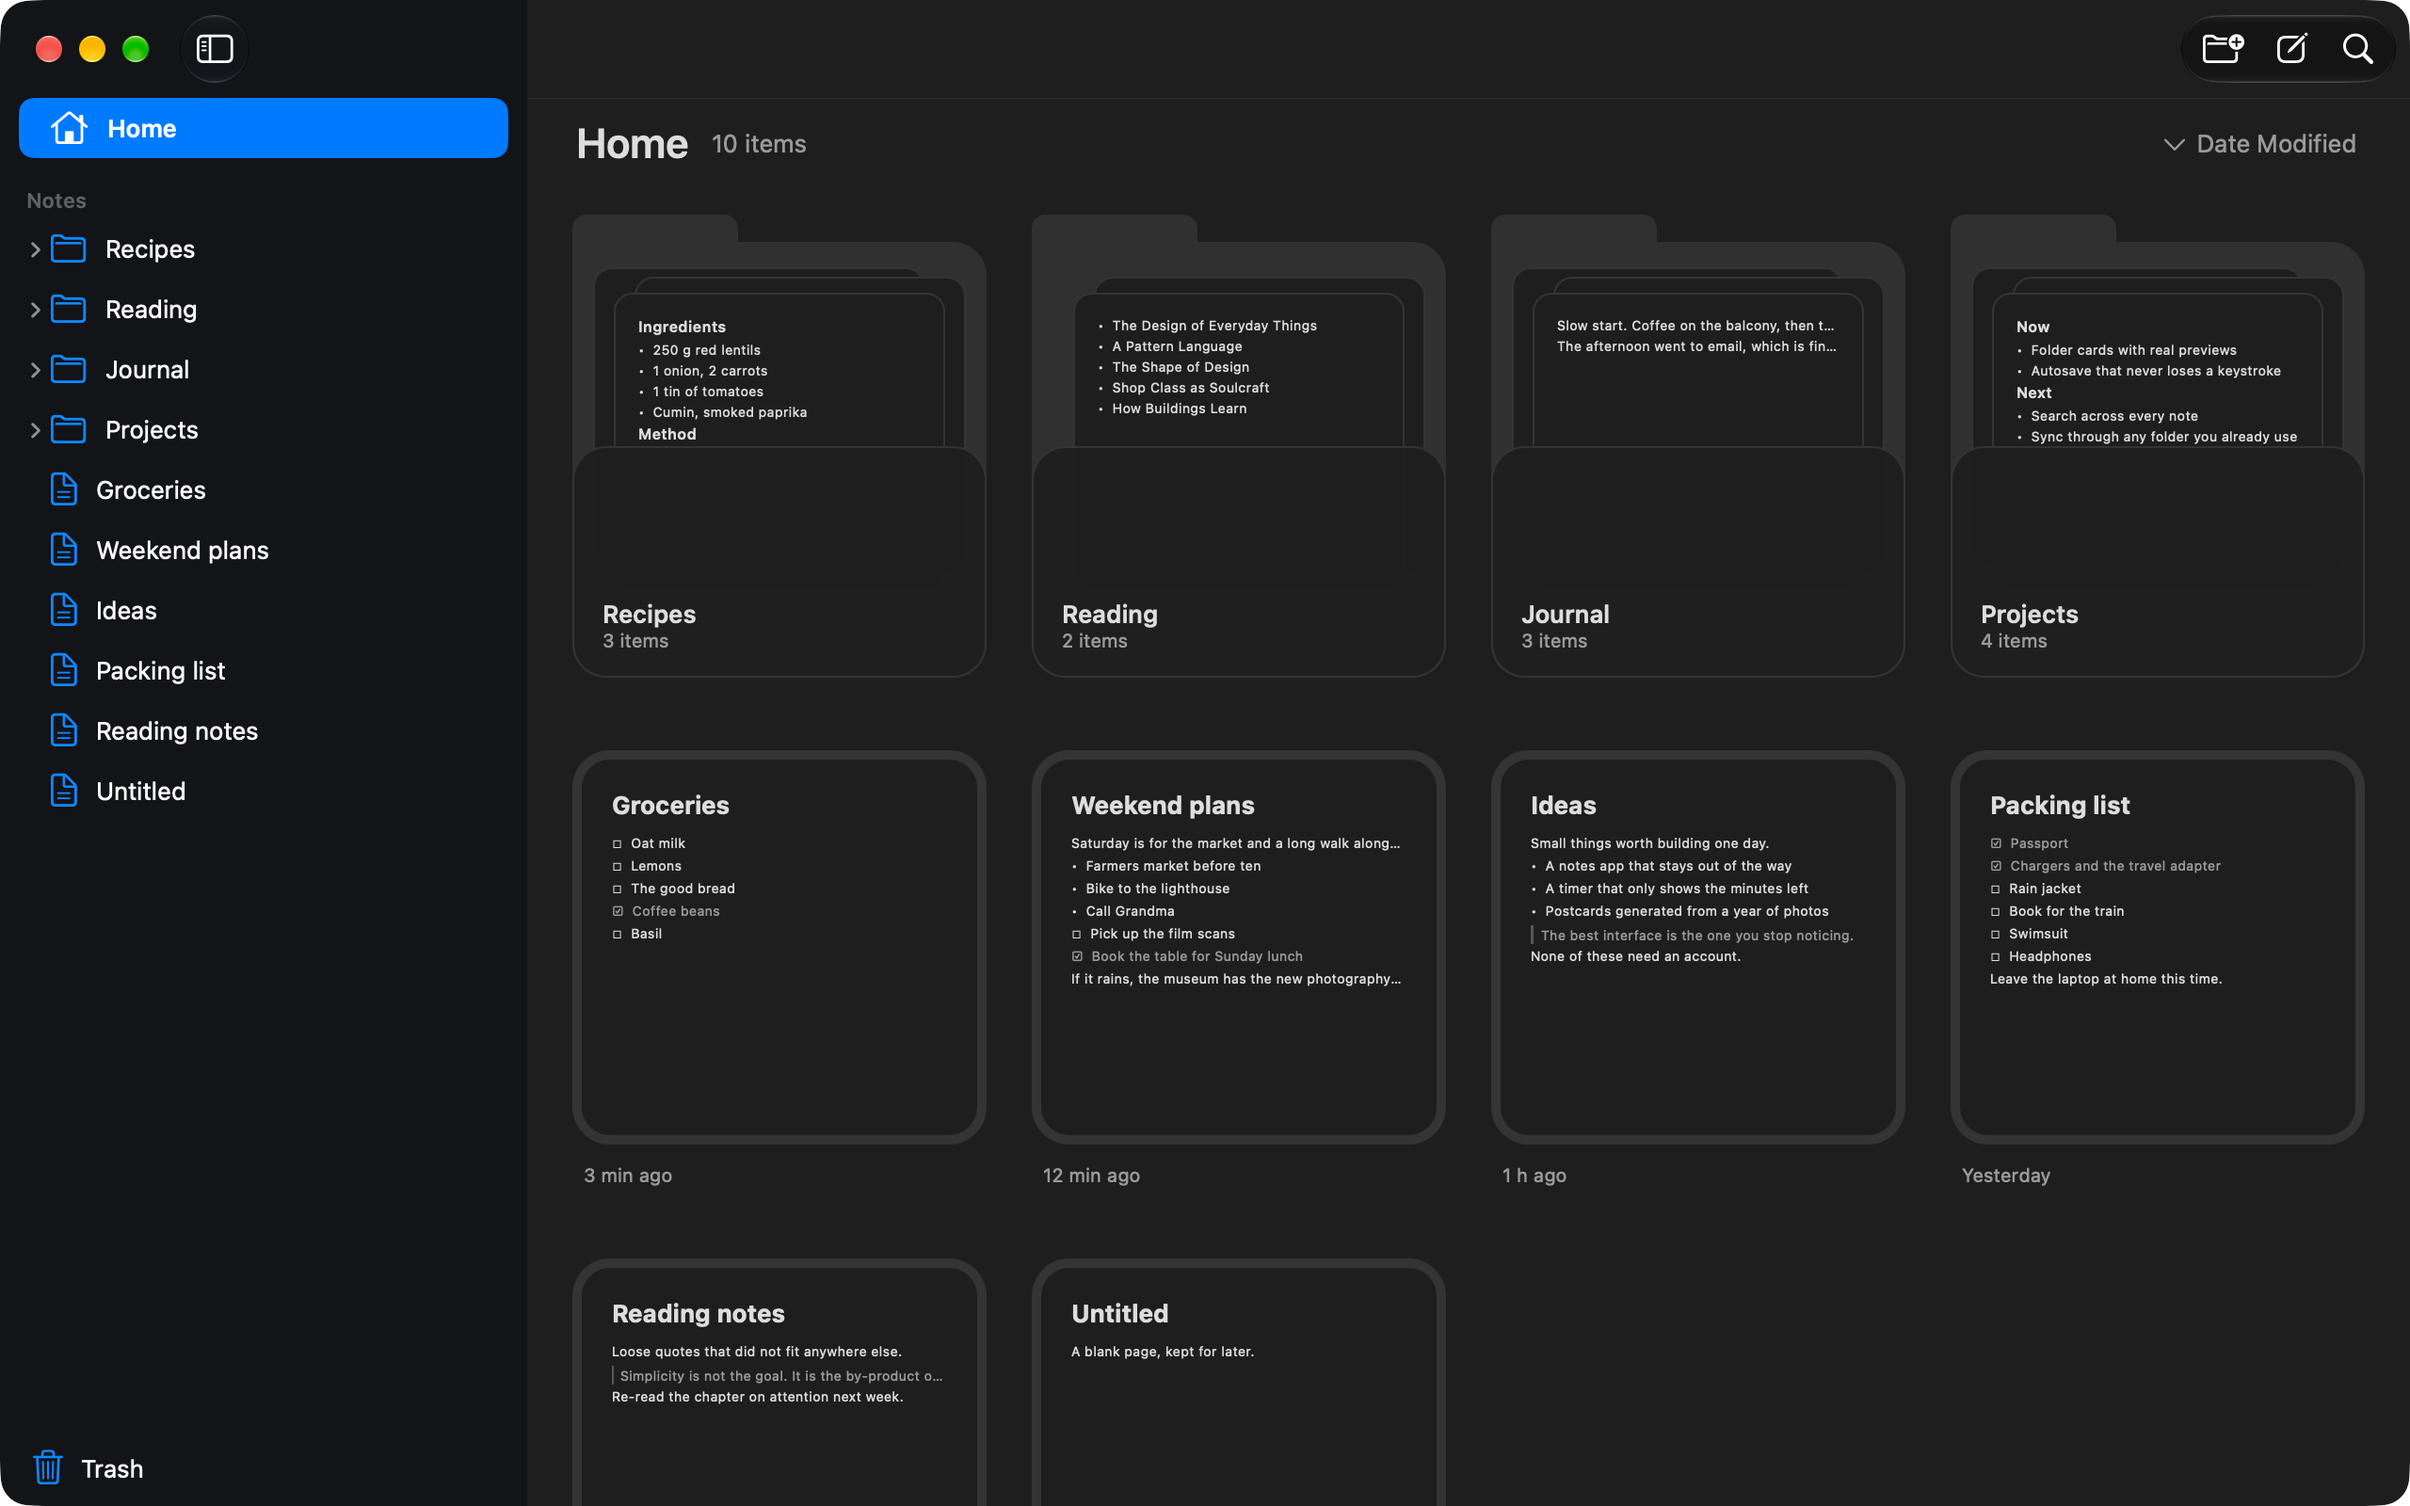
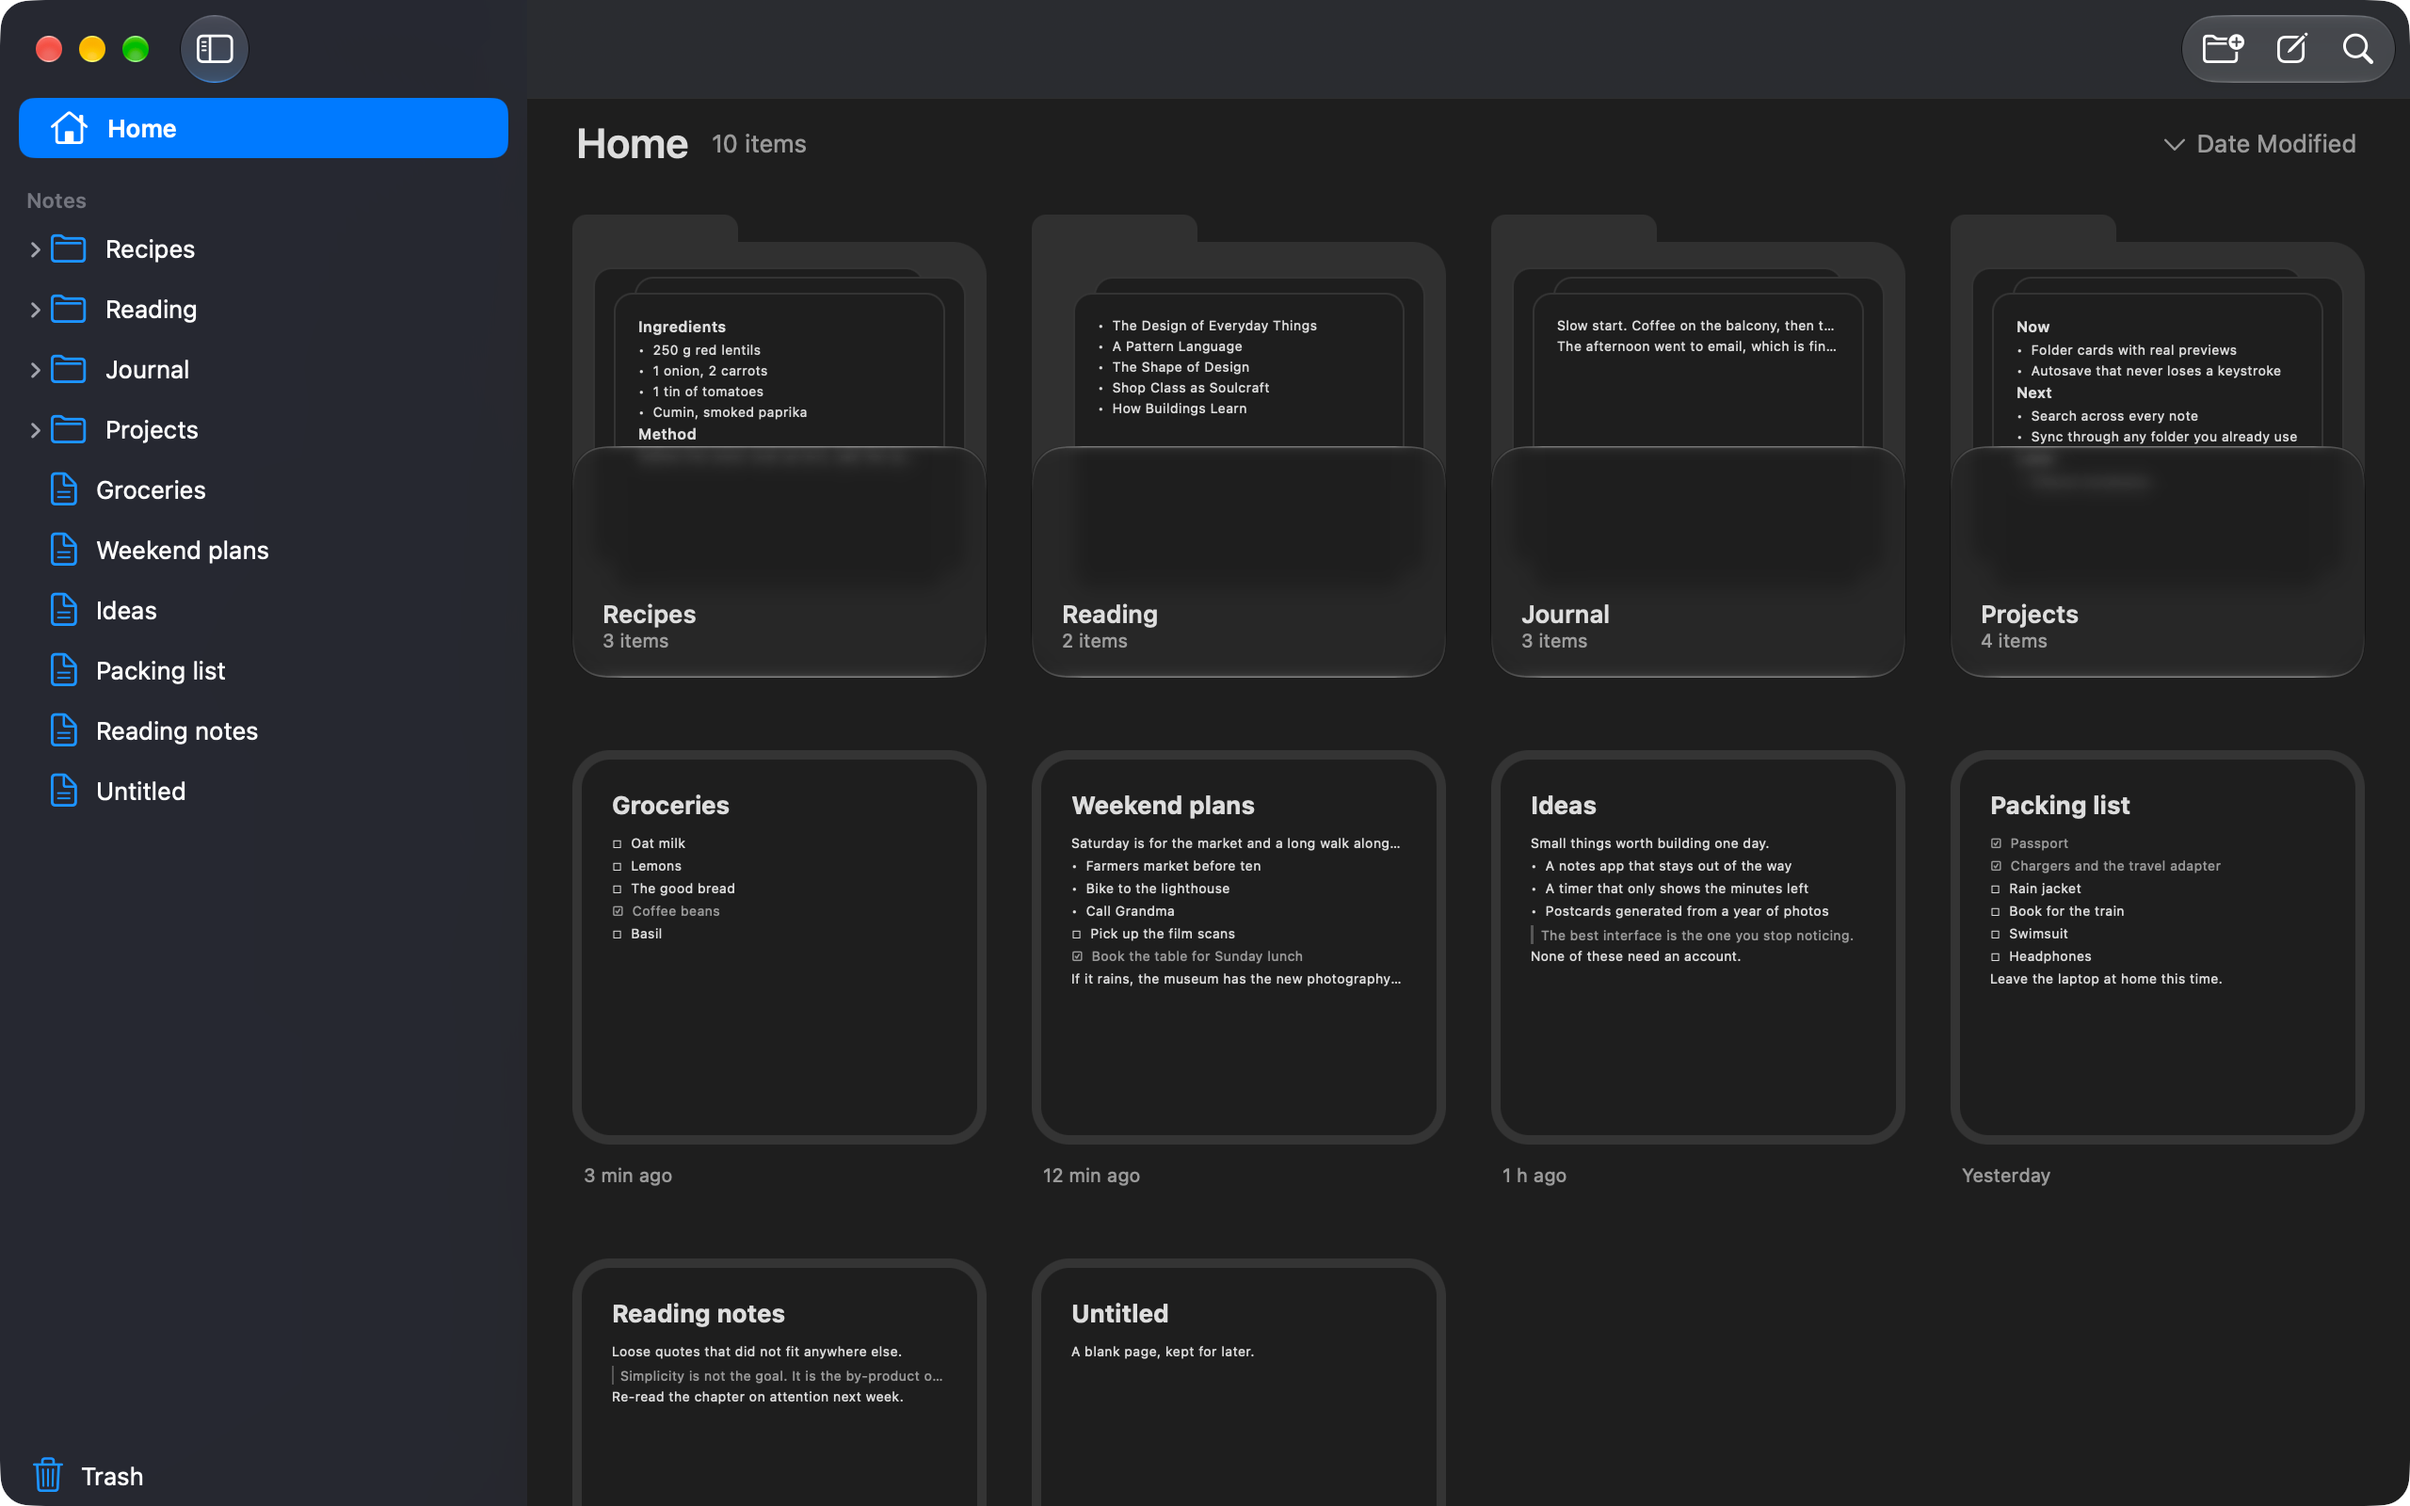
feat: liquid glass front panel on folder cards, the papers run on under it

Changed region(s): [[0.0, 0.0, 0.2188, 1.0], [0.9062, 0.0, 1.0, 0.0625]]

diff --git a/src/views/cards.rs b/src/views/cards.rs
@@ -4,6 +4,7 @@
 
 use jiff::Timestamp;
 use nd::prelude::*;
+use nd::theme::Scheme;
 
 use super::format;
 use super::metrics::*;
@@ -153,7 +154,7 @@ pub fn folder_card(theme: &Theme, face: FolderFace<'_>) -> Div {
         let content = match (i, face.first_page) {
             (0, Some(page)) => v_flex()
                 .gap(px(1.))
-                .children(preview(page, 6).into_iter().map(|line| preview_line(theme, line)))
+                .children(preview(page, PREVIEW_LINES).into_iter().map(|line| preview_line(theme, line)))
                 .into_any_element(),
             _ => v_flex()
                 .gap(px(5.))
@@ -209,7 +210,7 @@ pub fn folder_card(theme: &Theme, face: FolderFace<'_>) -> Div {
                 .bg(theme.surface.raised_hover),
         )
         .children((0..papers).rev().map(paper))
-        // The front panel, over the papers' lower half.
+        // The front panel, over the papers' lower half, which run on under it.
         .child(
             div()
                 .absolute()
@@ -217,13 +218,9 @@ pub fn folder_card(theme: &Theme, face: FolderFace<'_>) -> Div {
                 .right_0()
                 .bottom_0()
                 .top(relative(FOLDER_FRONT_TOP))
-                .rounded(px(FOLDER_RADIUS))
-                .bg(theme.surface.raised)
-                .border_1()
-                .border_color(theme.border.subtle)
-                .opacity(0.94)
                 .offset(px(0.), px(front_y))
-                .animate(motion::folder_open()),
+                .animate(motion::folder_open())
+                .child(front_panel(theme)),
         )
         .child(
             v_flex()
@@ -257,6 +254,22 @@ pub fn folder_card(theme: &Theme, face: FolderFace<'_>) -> Div {
                 .opacity(if face.targeted { 1. } else { 0. })
                 .animate(motion::hover(face.targeted)),
         )
+}
+
+/// Liquid Glass on macOS. A dark scheme takes the clear glass, tinted so the item count keeps
+/// its contrast; a light one the regular glass, as the clear glass under Reduce Transparency
+/// turns into a grey slab and nd does not report that setting. GPUI cannot blur what is
+/// behind an element, so there the panel is the see-through raised surface.
+fn front_panel(theme: &Theme) -> Glass {
+    let dark = theme.scheme == Scheme::Dark;
+    let see_through = |g: Glass| g.tint(crate::theme::folder_front_fill(theme));
+    glass()
+        .size_full()
+        .rounded(px(FOLDER_RADIUS))
+        .on_macos(|g| g.when(dark, |g| g.variant(GlassVariant::Clear).tint(crate::theme::folder_glass_tint(theme))))
+        .on_linux(see_through)
+        .on_windows(see_through)
+        .on_web(see_through)
 }
 
 /// A trashed note or folder: its card, captioned with where it came from.

diff --git a/tests/navigation.rs b/tests/navigation.rs
@@ -262,6 +262,34 @@ fn a_card_dips_while_it_is_pressed() {
     }
 }
 
+/// A folder's front panel is the system's glass, across the card's lower half, so the papers
+/// run on under it.
+#[nd::test]
+fn a_folder_front_is_glass_over_the_lower_half() {
+    use nd::components::GlassProps;
+
+    let mut rig = open();
+    let id = rig.id();
+    let panels = rig.cx.backend().find(|_, p| p.downcast_ref::<GlassProps>().is_some());
+    for folder in ["Journal", "Projects", "Reading", "Recipes"] {
+        let face = by_test_id(&mut rig.cx, id, &format!("face:folder:{folder}")).expect("a folder card").id;
+        let backend = rig.cx.backend();
+        let within = |mut n: NodeId| loop {
+            match backend.parent(n) {
+                Some(p) if p == face => return true,
+                Some(p) => n = p,
+                None => return false,
+            }
+        };
+        let fronts: Vec<_> = panels.iter().copied().filter(|&n| within(n)).collect();
+        assert_eq!(fronts.len(), 1, "{folder} has one glass front");
+        let card = backend.frame(face).expect("laid out").size;
+        let front = backend.frame(fronts[0]).expect("laid out").size;
+        assert!((front.width - card.width).abs() < 0.5, "{folder}: {front:?} spans {card:?}");
+        assert!((front.height - card.height / 2.).abs() < 1., "{folder}: {front:?} is half of {card:?}");
+    }
+}
+
 /// The node `test_id` without settling: a stopped clock would hold its motion forever.
 fn node_now(rig: &mut Rig, test_id: &str) -> Option<NodeId> {
     let tree = rig.cx.semantic_window(rig.id())?.root;

diff --git a/src/theme.rs b/src/theme.rs
@@ -1,4 +1,5 @@
-//! The colours the app names itself: the design's shadows, which no theme token carries.
+//! The colours the app names itself: the design's shadows and the folder panel's see-through
+//! fills, which no theme token carries.
 
 use nd::prelude::*;
 use nd::theme::{Scheme, Theme};
@@ -20,6 +21,16 @@ pub fn card_shadow(theme: &Theme, lifted: bool) -> Vec<BoxShadow> {
             inset: false,
         })
         .collect()
+}
+
+/// Darkens the clear glass of a folder's front panel by half the raised surface.
+pub fn folder_glass_tint(theme: &Theme) -> Hsla {
+    theme.surface.raised.opacity(0.5)
+}
+
+/// A folder's front panel where there is no glass to blur the papers behind it.
+pub fn folder_front_fill(theme: &Theme) -> Hsla {
+    theme.surface.raised.opacity(0.85)
 }
 
 #[cfg(test)]
